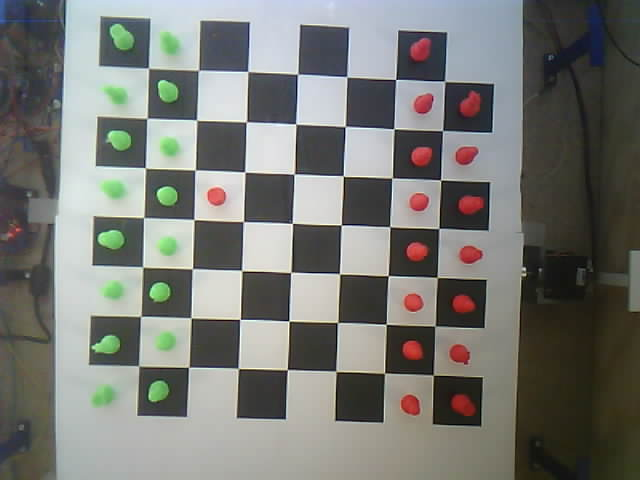
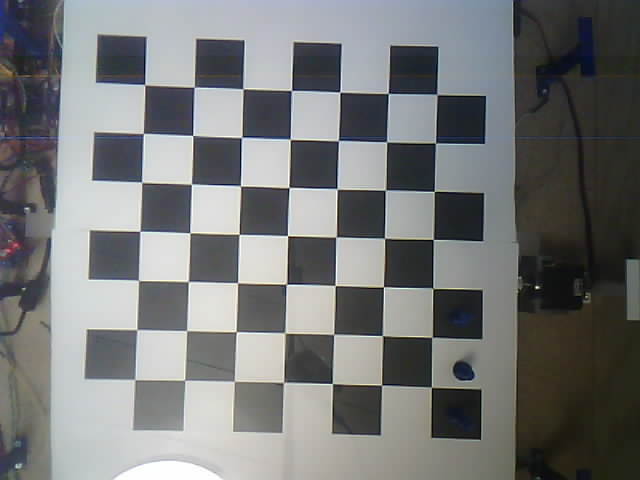
calibration

diff --git a/Main Firmware/ComputerVision.py b/Main Firmware/ComputerVision.py
@@ -14,8 +14,8 @@ upper_red = np.array([10, 255, 255])
 lower_red2 = np.array([170, 70, 70])
 upper_red2 = np.array([180, 255, 255])
 
-lower_green = np.array([50, 70, 70])
-upper_green = np.array([70, 255, 255])
+lower_blue = np.array([115, 70, 70])
+upper_blue = np.array([125, 255, 255])
 
 """lower_red = np.array([0, 100, 100])
 upper_red = np.array([10, 255, 255])"""
@@ -57,13 +57,13 @@ class ComputerVision:
         return move_player
 
     def try_range(square):
-        """cv2.namedWindow("output", cv2.WINDOW_NORMAL)
+        cv2.namedWindow("output", cv2.WINDOW_NORMAL)
         cv2.imshow("output", square)
         cv2.waitKey(0)
-        cv2.destroyAllWindows()"""
+        cv2.destroyAllWindows()
         hsv = cv2.cvtColor(square, cv2.COLOR_BGR2HSV)
-        mask_green = cv2.inRange(hsv, lower_green, upper_green)
-        hasGreen = np.sum(mask_green)
+        mask_blue = cv2.inRange(hsv, lower_blue, upper_blue)
+        hasBlue = np.sum(mask_blue)
 
         mask_red =  cv2.inRange(hsv, lower_red, upper_red)
         hasRed = np.sum(mask_red)
@@ -71,33 +71,38 @@ class ComputerVision:
         mask_red2 =  cv2.inRange(hsv, lower_red2, upper_red2)
         hasRed2 = np.sum(mask_red2)
 
-        """print('red', hasRed, hasRed2)
-        print('green', hasGreen)"""
-        if hasGreen > 7000 or hasRed > 7000 or hasRed2 > 7000:
-            return "X" 
+        print('red', hasRed, hasRed2)
+        print('blue', hasBlue)
+        if hasBlue > 7000: 
+            return 'B' 
+        elif hasRed > 7000 or hasRed2 > 7000:
+            return 'R'
         else:
             return '.'
 
     def process_image():
-        """cropXBegin = 125
+        """cropXBegin = 125S
         cropXEnd = 50
         cropYTop = 250
         cropYBottom = 175"""
-        cropXBegin = 103
+        cropXBegin = 105
         cropXEnd = 165
-        cropYTop = 38
-        cropYBottom = 76
+        cropYTop = 53
+        cropYBottom = 63
         nline = 7
         ncol = 7
 
         img = cv2.imread("./chess.jpg")
         img = imutils.rotate_bound(img, -2)
         img = img[cropYTop:img.shape[0] - cropYBottom, cropXBegin:img.shape[1] - cropXEnd, :]
+        cv2.namedWindow("output", cv2.WINDOW_NORMAL)        
+        cv2.imshow("output", img)
+        cv2.waitKey(0)
+        cv2.destroyAllWindows()
         img = cv2.rotate(img, cv2.ROTATE_90_COUNTERCLOCKWISE)
         img = cv2.flip(img,1)
         img = cv2.rotate(img, cv2.ROTATE_180)
         img = cv2.flip(img, 0)
-        cv2.namedWindow("output", cv2.WINDOW_NORMAL)        
 
         x_list = []
         y_list = []
@@ -116,11 +121,11 @@ class ComputerVision:
             ret, corners = cv2.findChessboardCorners(gray, (nline, ncol), None)
             criteria = (cv2.TERM_CRITERIA_EPS + cv2.TERM_CRITERIA_MAX_ITER, 30, 0.001)
             corners2 = cv2.cornerSubPix(gray, corners, (11, 11), (-1, -1), criteria)
-            """cv2.drawChessboardCorners(img, (7, 7), corners2, ret)
+            cv2.drawChessboardCorners(img, (7, 7), corners2, ret)
             cv2.namedWindow("output", cv2.WINDOW_NORMAL)
             cv2.imshow("output", img)
             cv2.waitKey(0)
-            cv2.destroyAllWindows()"""
+            cv2.destroyAllWindows()
             with open('square_indices.txt', 'w') as f:
                 for coord in corners2:
                     x_list.append(coord[0][1])
@@ -130,7 +135,7 @@ class ComputerVision:
 
         board = img
         
-        reduce_cell = 0
+        reduce_cell = 1
 
         cell_nbr = 0
         from_x = 0

diff --git a/Main Firmware/ChessAI.py b/Main Firmware/ChessAI.py
@@ -4,7 +4,7 @@ import chess.engine
 class ChessAI:
 
     def __init__(self):
-        self.engine = chess.engine.SimpleEngine.popen_uci(r'/usr/games/stockfish')
+        self.engine = chess.engine.SimpleEngine.popen_uci(r'./stockfish_15_x64_avx2.exe')
         self.board = chess.Board()
     #Plays automatically a move on the board, and returns the move that was made
     def play_move_auto(self):
